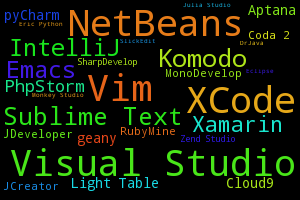
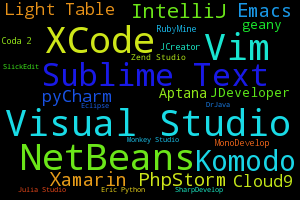
pyide 2

diff --git a/IDE/All.js b/IDE/All.js
@@ -1,7 +1,7 @@
     // data
 // begin Top All
 TopPlusMinus = [1,1,20]
-PlusMinus = [-0.101433333333,0.07005]
+PlusMinus = [-0.0934666666667,0.0672666666667]
 // end Top All
 graphData = [
 ['Date', // begin section languages
@@ -9,40 +9,40 @@ graphData = [
 // end section languages
 ],
 // begin section All
-[new Date(2004,1,1), 0.39,0.0,0.024,0.067,0.142,0.023,0.056,0.265,0.033,0.0,0.0,0.0,0.0,0.0,0.0,0.0,0.0,0.0,0.0,0.0,0.0,0.0,0.0,0.0,0.0,0.0,0.0,0.0],
-[new Date(2004,5,1), 0.396,0.0,0.025,0.074,0.137,0.024,0.057,0.247,0.04,0.0,0.0,0.0,0.0,0.0,0.0,0.0,0.0,0.0,0.0,0.0,0.0,0.0,0.0,0.0,0.0,0.0,0.0,0.0],
-[new Date(2004,9,1), 0.415,0.0,0.029,0.077,0.14,0.027,0.048,0.227,0.037,0.0,0.0,0.0,0.0,0.0,0.0,0.0,0.0,0.0,0.0,0.0,0.0,0.0,0.0,0.0,0.0,0.0,0.0,0.0],
-[new Date(2005,1,1), 0.416,0.0,0.029,0.086,0.137,0.028,0.049,0.222,0.034,0.0,0.0,0.0,0.0,0.0,0.0,0.0,0.0,0.0,0.0,0.0,0.0,0.0,0.0,0.0,0.0,0.0,0.0,0.0],
-[new Date(2005,5,1), 0.426,0.0,0.029,0.095,0.137,0.03,0.053,0.2,0.029,0.0,0.0,0.001,0.0,0.0,0.0,0.0,0.0,0.0,0.0,0.0,0.0,0.0,0.0,0.0,0.0,0.0,0.0,0.0],
-[new Date(2005,9,1), 0.446,0.0,0.03,0.097,0.134,0.036,0.042,0.181,0.029,0.0,0.0,0.004,0.0,0.0,0.0,0.0,0.0,0.0,0.0,0.0,0.0,0.0,0.0,0.0,0.0,0.0,0.0,0.0],
-[new Date(2006,1,1), 0.487,0.0,0.026,0.096,0.128,0.032,0.041,0.16,0.025,0.0,0.0,0.005,0.0,0.0,0.0,0.0,0.0,0.0,0.0,0.0,0.0,0.0,0.0,0.0,0.0,0.0,0.0,0.0],
-[new Date(2006,5,1), 0.498,0.0,0.027,0.107,0.126,0.028,0.048,0.14,0.021,0.0,0.0,0.005,0.0,0.0,0.0,0.0,0.0,0.0,0.0,0.0,0.0,0.0,0.0,0.0,0.0,0.0,0.0,0.0],
-[new Date(2006,9,1), 0.469,0.0,0.025,0.107,0.133,0.03,0.043,0.133,0.02,0.0,0.0,0.005,0.006,0.0,0.0,0.004,0.013,0.0,0.006,0.0,0.007,0.0,0.0,0.0,0.0,0.0,0.0,0.0],
-[new Date(2007,1,1), 0.444,0.0,0.023,0.121,0.126,0.031,0.043,0.121,0.019,0.0,0.0,0.005,0.01,0.0,0.0,0.006,0.027,0.0,0.012,0.0,0.012,0.0,0.0,0.0,0.0,0.0,0.0,0.0],
-[new Date(2007,5,1), 0.451,0.0,0.022,0.139,0.117,0.026,0.048,0.109,0.018,0.0,0.0,0.004,0.013,0.0,0.002,0.006,0.022,0.0,0.011,0.0,0.012,0.0,0.0,0.0,0.0,0.0,0.0,0.0],
-[new Date(2007,9,1), 0.45,0.0,0.022,0.148,0.117,0.025,0.044,0.104,0.017,0.0,0.0,0.004,0.021,0.0,0.002,0.005,0.019,0.0,0.01,0.0,0.01,0.0,0.0,0.0,0.0,0.0,0.0,0.0],
-[new Date(2008,1,1), 0.463,0.0,0.019,0.16,0.11,0.028,0.038,0.092,0.017,0.0,0.0,0.004,0.023,0.0,0.003,0.005,0.02,0.0,0.009,0.0,0.011,0.0,0.0,0.0,0.0,0.0,0.0,0.0],
-[new Date(2008,5,1), 0.474,0.0,0.017,0.169,0.102,0.029,0.042,0.083,0.015,0.0,0.0,0.004,0.022,0.0,0.003,0.004,0.017,0.0,0.007,0.0,0.011,0.0,0.0,0.0,0.0,0.0,0.0,0.0],
-[new Date(2008,9,1), 0.464,0.0,0.016,0.168,0.107,0.034,0.048,0.081,0.015,0.0,0.0,0.003,0.022,0.0,0.004,0.004,0.015,0.0,0.007,0.0,0.011,0.0,0.0,0.0,0.0,0.0,0.0,0.0],
-[new Date(2009,1,1), 0.458,0.0,0.015,0.173,0.108,0.039,0.043,0.08,0.015,0.0,0.0,0.003,0.023,0.0,0.004,0.004,0.016,0.0,0.007,0.0,0.011,0.0,0.0,0.0,0.0,0.0,0.0,0.0],
-[new Date(2009,5,1), 0.446,0.0,0.015,0.177,0.108,0.044,0.053,0.075,0.014,0.0,0.0,0.003,0.026,0.0,0.005,0.004,0.014,0.0,0.006,0.0,0.011,0.0,0.0,0.0,0.0,0.0,0.0,0.0],
-[new Date(2009,9,1), 0.44,0.0,0.014,0.177,0.112,0.051,0.051,0.072,0.014,0.0,0.0,0.003,0.025,0.0,0.005,0.005,0.013,0.0,0.006,0.0,0.013,0.0,0.0,0.0,0.0,0.0,0.0,0.0],
-[new Date(2010,1,1), 0.446,0.0,0.014,0.172,0.11,0.054,0.047,0.069,0.016,0.0,0.0,0.003,0.024,0.0,0.005,0.005,0.013,0.0,0.006,0.0,0.013,0.0,0.0,0.002,0.0,0.0,0.0,0.0],
-[new Date(2010,5,1), 0.457,0.0,0.013,0.166,0.106,0.056,0.049,0.062,0.016,0.0,0.0,0.002,0.021,0.001,0.005,0.005,0.011,0.001,0.005,0.001,0.01,0.001,0.001,0.009,0.0,0.0,0.001,0.001],
-[new Date(2010,9,1), 0.454,0.0,0.012,0.16,0.11,0.073,0.046,0.059,0.014,0.0,0.001,0.002,0.02,0.001,0.005,0.004,0.01,0.001,0.005,0.001,0.008,0.001,0.001,0.008,0.001,0.0,0.001,0.001],
-[new Date(2011,1,1), 0.423,0.0,0.011,0.159,0.119,0.082,0.048,0.06,0.016,0.0,0.002,0.003,0.02,0.002,0.006,0.004,0.01,0.001,0.005,0.001,0.009,0.002,0.001,0.012,0.001,0.001,0.001,0.002],
-[new Date(2011,5,1), 0.399,0.0,0.01,0.156,0.121,0.105,0.051,0.057,0.017,0.0,0.003,0.004,0.02,0.002,0.006,0.004,0.008,0.001,0.004,0.002,0.008,0.003,0.001,0.012,0.001,0.001,0.001,0.002],
-[new Date(2011,9,1), 0.383,0.0,0.01,0.15,0.125,0.125,0.051,0.054,0.017,0.001,0.004,0.004,0.02,0.003,0.006,0.005,0.008,0.001,0.003,0.004,0.007,0.003,0.001,0.011,0.001,0.001,0.001,0.002],
-[new Date(2012,1,1), 0.364,0.0,0.009,0.141,0.124,0.13,0.066,0.051,0.019,0.001,0.005,0.004,0.02,0.003,0.006,0.005,0.008,0.001,0.003,0.011,0.007,0.002,0.001,0.013,0.001,0.001,0.001,0.002],
-[new Date(2012,5,1), 0.363,0.0,0.009,0.14,0.124,0.132,0.055,0.049,0.02,0.002,0.006,0.005,0.019,0.003,0.006,0.005,0.006,0.003,0.003,0.022,0.006,0.003,0.001,0.014,0.001,0.001,0.001,0.001],
-[new Date(2012,9,1), 0.362,0.0,0.009,0.133,0.125,0.131,0.05,0.048,0.021,0.002,0.007,0.005,0.019,0.003,0.006,0.005,0.006,0.005,0.003,0.034,0.005,0.003,0.001,0.014,0.001,0.001,0.001,0.001],
-[new Date(2013,1,1), 0.371,0.0,0.008,0.127,0.122,0.119,0.051,0.044,0.024,0.003,0.009,0.005,0.017,0.004,0.006,0.005,0.006,0.004,0.003,0.045,0.004,0.003,0.001,0.015,0.001,0.001,0.001,0.001],
-[new Date(2013,5,1), 0.36,0.0,0.008,0.124,0.123,0.106,0.058,0.043,0.03,0.008,0.011,0.005,0.016,0.005,0.006,0.005,0.005,0.003,0.002,0.054,0.004,0.003,0.001,0.015,0.001,0.001,0.002,0.001],
-[new Date(2013,9,1), 0.354,0.0,0.009,0.119,0.127,0.104,0.054,0.04,0.033,0.012,0.012,0.006,0.014,0.006,0.006,0.004,0.004,0.003,0.002,0.064,0.003,0.003,0.001,0.014,0.001,0.001,0.001,0.001],
-[new Date(2014,1,1), 0.356,0.0,0.007,0.115,0.122,0.105,0.051,0.038,0.034,0.015,0.014,0.007,0.013,0.008,0.006,0.004,0.004,0.003,0.002,0.067,0.003,0.003,0.001,0.016,0.001,0.001,0.002,0.001],
-[new Date(2014,5,1), 0.349,0.0,0.006,0.113,0.122,0.101,0.053,0.036,0.04,0.019,0.016,0.009,0.011,0.01,0.005,0.005,0.003,0.003,0.002,0.069,0.003,0.003,0.001,0.017,0.001,0.001,0.002,0.001],
-[new Date(2014,9,1), 0.344,0.0,0.006,0.111,0.122,0.102,0.054,0.034,0.042,0.024,0.018,0.011,0.01,0.011,0.005,0.004,0.003,0.002,0.002,0.068,0.002,0.003,0.001,0.016,0.001,0.001,0.001,0.001],
-[new Date(2015,1,1), 0.345,0.0,0.005,0.105,0.119,0.099,0.054,0.033,0.045,0.027,0.02,0.012,0.009,0.013,0.005,0.004,0.003,0.002,0.002,0.07,0.002,0.003,0.001,0.018,0.001,0.001,0.001,0.001]
+[new Date(2004,1,1), 0.372,0.0,0.0,0.064,0.136,0.023,0.053,0.253,0.032,0.0,0.0,0.0,0.0,0.0,0.0,0.0,0.056,0.0,0.0,0.0,0.0,0.0,0.0,0.011,0.0,0.0,0.0,0.0],
+[new Date(2004,5,1), 0.377,0.0,0.0,0.07,0.13,0.023,0.054,0.236,0.038,0.0,0.0,0.0,0.0,0.0,0.0,0.0,0.061,0.0,0.0,0.0,0.0,0.0,0.0,0.011,0.0,0.0,0.0,0.0],
+[new Date(2004,9,1), 0.399,0.0,0.0,0.074,0.135,0.026,0.046,0.218,0.035,0.0,0.0,0.0,0.0,0.0,0.0,0.0,0.055,0.0,0.0,0.0,0.0,0.0,0.0,0.011,0.0,0.0,0.0,0.0],
+[new Date(2005,1,1), 0.399,0.0,0.0,0.082,0.132,0.026,0.047,0.213,0.032,0.0,0.0,0.0,0.0,0.0,0.0,0.0,0.054,0.0,0.0,0.0,0.0,0.0,0.0,0.013,0.0,0.0,0.0,0.0],
+[new Date(2005,5,1), 0.413,0.0,0.0,0.092,0.132,0.029,0.052,0.193,0.028,0.0,0.0,0.001,0.0,0.0,0.0,0.0,0.048,0.0,0.0,0.0,0.0,0.0,0.0,0.012,0.0,0.0,0.0,0.0],
+[new Date(2005,9,1), 0.435,0.0,0.0,0.095,0.131,0.035,0.042,0.178,0.029,0.0,0.0,0.004,0.0,0.0,0.0,0.0,0.041,0.0,0.0,0.0,0.0,0.0,0.0,0.012,0.0,0.0,0.0,0.0],
+[new Date(2006,1,1), 0.475,0.0,0.0,0.094,0.124,0.031,0.041,0.156,0.024,0.0,0.0,0.005,0.0,0.0,0.0,0.0,0.037,0.0,0.0,0.0,0.0,0.0,0.0,0.013,0.0,0.0,0.0,0.0],
+[new Date(2006,5,1), 0.491,0.0,0.0,0.105,0.124,0.028,0.048,0.138,0.021,0.0,0.0,0.005,0.0,0.0,0.0,0.0,0.029,0.0,0.0,0.0,0.0,0.0,0.0,0.011,0.0,0.0,0.0,0.0],
+[new Date(2006,9,1), 0.478,0.0,0.0,0.109,0.135,0.031,0.044,0.135,0.02,0.0,0.0,0.005,0.006,0.0,0.0,0.0,0.027,0.0,0.0,0.0,0.0,0.0,0.0,0.01,0.0,0.0,0.0,0.0],
+[new Date(2007,1,1), 0.46,0.0,0.003,0.125,0.13,0.032,0.044,0.126,0.02,0.0,0.0,0.005,0.011,0.0,0.0,0.001,0.027,0.0,0.002,0.0,0.002,0.0,0.0,0.011,0.0,0.0,0.0,0.0],
+[new Date(2007,5,1), 0.453,0.0,0.014,0.14,0.119,0.027,0.049,0.11,0.018,0.0,0.0,0.004,0.013,0.0,0.002,0.004,0.022,0.0,0.006,0.0,0.007,0.0,0.001,0.01,0.0,0.0,0.0,0.0],
+[new Date(2007,9,1), 0.449,0.0,0.019,0.147,0.117,0.025,0.044,0.104,0.017,0.0,0.0,0.004,0.021,0.0,0.002,0.005,0.019,0.0,0.008,0.0,0.009,0.0,0.001,0.009,0.0,0.0,0.0,0.0],
+[new Date(2008,1,1), 0.455,0.0,0.02,0.158,0.109,0.027,0.037,0.091,0.017,0.0,0.0,0.004,0.023,0.0,0.003,0.005,0.02,0.0,0.009,0.0,0.011,0.0,0.002,0.011,0.0,0.0,0.0,0.0],
+[new Date(2008,5,1), 0.468,0.0,0.018,0.166,0.101,0.029,0.041,0.081,0.015,0.0,0.0,0.003,0.022,0.0,0.003,0.005,0.017,0.0,0.007,0.0,0.011,0.0,0.002,0.01,0.0,0.0,0.0,0.0],
+[new Date(2008,9,1), 0.458,0.0,0.017,0.166,0.106,0.034,0.048,0.08,0.015,0.0,0.0,0.003,0.022,0.0,0.004,0.004,0.015,0.0,0.007,0.0,0.011,0.0,0.002,0.01,0.0,0.0,0.0,0.0],
+[new Date(2009,1,1), 0.451,0.0,0.016,0.171,0.106,0.038,0.042,0.079,0.015,0.0,0.0,0.003,0.023,0.0,0.004,0.004,0.015,0.0,0.007,0.0,0.012,0.0,0.002,0.011,0.0,0.0,0.0,0.0],
+[new Date(2009,5,1), 0.44,0.0,0.015,0.174,0.106,0.042,0.052,0.074,0.014,0.0,0.0,0.003,0.026,0.0,0.005,0.004,0.014,0.0,0.006,0.0,0.011,0.001,0.001,0.011,0.0,0.0,0.0,0.0],
+[new Date(2009,9,1), 0.433,0.0,0.015,0.174,0.11,0.049,0.05,0.071,0.014,0.0,0.0,0.003,0.025,0.0,0.005,0.005,0.012,0.0,0.006,0.0,0.013,0.002,0.001,0.01,0.0,0.0,0.0,0.0],
+[new Date(2010,1,1), 0.44,0.0,0.014,0.169,0.109,0.053,0.046,0.068,0.016,0.0,0.0,0.003,0.024,0.0,0.005,0.005,0.013,0.0,0.006,0.0,0.013,0.002,0.002,0.012,0.0,0.0,0.0,0.0],
+[new Date(2010,5,1), 0.455,0.0,0.013,0.165,0.106,0.056,0.049,0.062,0.015,0.0,0.0,0.002,0.021,0.001,0.005,0.005,0.011,0.001,0.005,0.001,0.01,0.001,0.001,0.011,0.001,0.001,0.001,0.001],
+[new Date(2010,9,1), 0.453,0.0,0.012,0.159,0.11,0.072,0.046,0.059,0.014,0.0,0.001,0.002,0.02,0.001,0.005,0.004,0.01,0.001,0.005,0.001,0.009,0.002,0.001,0.009,0.001,0.0,0.001,0.001],
+[new Date(2011,1,1), 0.422,0.0,0.012,0.159,0.119,0.082,0.048,0.06,0.016,0.0,0.002,0.003,0.02,0.002,0.006,0.005,0.01,0.001,0.005,0.001,0.009,0.002,0.001,0.012,0.001,0.001,0.001,0.002],
+[new Date(2011,5,1), 0.399,0.0,0.011,0.156,0.121,0.105,0.051,0.057,0.017,0.0,0.003,0.004,0.02,0.002,0.006,0.004,0.008,0.001,0.004,0.002,0.008,0.003,0.001,0.011,0.001,0.001,0.001,0.002],
+[new Date(2011,9,1), 0.383,0.0,0.011,0.15,0.124,0.125,0.051,0.054,0.017,0.001,0.004,0.004,0.02,0.003,0.006,0.005,0.008,0.001,0.003,0.004,0.007,0.003,0.001,0.011,0.001,0.001,0.001,0.002],
+[new Date(2012,1,1), 0.364,0.0,0.01,0.141,0.124,0.13,0.066,0.051,0.019,0.001,0.005,0.004,0.02,0.003,0.006,0.005,0.008,0.001,0.003,0.011,0.007,0.002,0.001,0.013,0.001,0.001,0.001,0.002],
+[new Date(2012,5,1), 0.363,0.0,0.009,0.14,0.123,0.132,0.055,0.049,0.02,0.002,0.006,0.005,0.019,0.003,0.006,0.005,0.006,0.003,0.003,0.022,0.006,0.003,0.001,0.013,0.001,0.001,0.001,0.002],
+[new Date(2012,9,1), 0.362,0.0,0.009,0.133,0.126,0.13,0.05,0.048,0.021,0.002,0.007,0.005,0.019,0.004,0.006,0.005,0.006,0.006,0.003,0.033,0.005,0.003,0.001,0.013,0.001,0.001,0.001,0.001],
+[new Date(2013,1,1), 0.372,0.0,0.008,0.127,0.122,0.119,0.051,0.044,0.024,0.003,0.009,0.005,0.017,0.004,0.006,0.005,0.006,0.004,0.003,0.044,0.004,0.003,0.001,0.015,0.001,0.001,0.001,0.001],
+[new Date(2013,5,1), 0.361,0.0,0.008,0.124,0.123,0.107,0.058,0.043,0.03,0.008,0.011,0.005,0.016,0.005,0.006,0.005,0.005,0.003,0.003,0.052,0.004,0.003,0.001,0.015,0.001,0.001,0.001,0.001],
+[new Date(2013,9,1), 0.356,0.0,0.008,0.119,0.127,0.105,0.054,0.04,0.033,0.012,0.012,0.006,0.015,0.006,0.006,0.004,0.004,0.003,0.002,0.063,0.004,0.003,0.001,0.014,0.001,0.001,0.001,0.001],
+[new Date(2014,1,1), 0.358,0.0,0.007,0.116,0.123,0.106,0.051,0.038,0.035,0.015,0.014,0.007,0.013,0.008,0.006,0.005,0.004,0.003,0.002,0.064,0.003,0.003,0.001,0.016,0.001,0.001,0.001,0.001],
+[new Date(2014,5,1), 0.35,0.0,0.006,0.114,0.122,0.101,0.053,0.036,0.041,0.019,0.016,0.009,0.012,0.01,0.005,0.005,0.003,0.003,0.002,0.066,0.003,0.003,0.001,0.016,0.001,0.001,0.001,0.001],
+[new Date(2014,9,1), 0.345,0.0,0.006,0.111,0.122,0.102,0.054,0.034,0.042,0.024,0.018,0.011,0.01,0.011,0.005,0.004,0.003,0.002,0.002,0.068,0.002,0.003,0.001,0.015,0.001,0.001,0.001,0.001],
+[new Date(2015,1,1), 0.346,0.0,0.006,0.105,0.119,0.1,0.054,0.033,0.045,0.027,0.02,0.012,0.009,0.013,0.005,0.004,0.003,0.002,0.002,0.068,0.002,0.003,0.001,0.018,0.001,0.001,0.001,0.001]
 // end section All
         ];
 

diff --git a/IDE.html b/IDE.html
@@ -134,31 +134,31 @@ country["FR"]="France"
 function refreshTop() {        
 cloud = "All.png"
 table = "<!-- begin section All-->\
-<td class=center>1</td><td class=center></td><td>Visual Studio</td><td class=right>34.5 %</td><td class=\"right optCol\">-1.4 %</td></tr>\
-<tr><td class=center>2</td><td class=center></td><td>Vim</td><td class=right>11.9 %</td><td class=\"right optCol\">-0.1 %</td></tr>\
-<tr><td class=center>3</td><td class=center></td><td>NetBeans</td><td class=right>10.5 %</td><td class=\"right optCol\">-1.0 %</td></tr>\
-<tr><td class=center>4</td><td class=center></td><td>XCode</td><td class=right>9.9 %</td><td class=\"right optCol\">-0.3 %</td></tr>\
-<tr><td class=center>5</td><td class=center></td><td>Sublime Text</td><td class=right>7.0 %</td><td class=\"right optCol\">+0.2 %</td></tr>\
-<tr><td class=center>6</td><td class=center></td><td>Komodo</td><td class=right>5.4 %</td><td class=\"right optCol\">+0.4 %</td></tr>\
-<tr><td class=center>7</td><td class=center><image src=Up.png></td><td>IntelliJ</td><td class=right>4.5 %</td><td class=\"right optCol\">+0.9 %</td></tr>\
+<td class=center>1</td><td class=center></td><td>Visual Studio</td><td class=right>34.6 %</td><td class=\"right optCol\">-1.4 %</td></tr>\
+<tr><td class=center>2</td><td class=center></td><td>Vim</td><td class=right>11.9 %</td><td class=\"right optCol\">-0.2 %</td></tr>\
+<tr><td class=center>3</td><td class=center></td><td>NetBeans</td><td class=right>10.5 %</td><td class=\"right optCol\">-1.1 %</td></tr>\
+<tr><td class=center>4</td><td class=center></td><td>XCode</td><td class=right>10.0 %</td><td class=\"right optCol\">-0.3 %</td></tr>\
+<tr><td class=center>5</td><td class=center></td><td>Sublime Text</td><td class=right>6.8 %</td><td class=\"right optCol\">+0.4 %</td></tr>\
+<tr><td class=center>6</td><td class=center></td><td>Komodo</td><td class=right>5.4 %</td><td class=\"right optCol\">+0.3 %</td></tr>\
+<tr><td class=center>7</td><td class=center><image src=Up.png></td><td>IntelliJ</td><td class=right>4.5 %</td><td class=\"right optCol\">+0.8 %</td></tr>\
 <tr><td class=center>8</td><td class=center><image src=Down.png></td><td>Emacs</td><td class=right>3.3 %</td><td class=\"right optCol\">-0.5 %</td></tr>\
-<tr><td class=center>9</td><td class=center><image src=Up.png></td><td>Xamarin</td><td class=right>2.7 %</td><td class=\"right optCol\">+1.3 %</td></tr>\
+<tr><td class=center>9</td><td class=center><image src=Up.png></td><td>Xamarin</td><td class=right>2.7 %</td><td class=\"right optCol\">+1.2 %</td></tr>\
 <tr><td class=center>10</td><td class=center><image src=Up.png></td><td>PhpStorm</td><td class=right>2.0 %</td><td class=\"right optCol\">+0.6 %</td></tr>\
-<tr><td class=center>11</td><td class=center><image src=Down.png><image src=Down.png></td><td>Light Table</td><td class=right>1.8 %</td><td class=\"right optCol\">-0.0 %</td></tr>\
+<tr><td class=center>11</td><td class=center><image src=Down.png><image src=Down.png></td><td>Light Table</td><td class=right>1.8 %</td><td class=\"right optCol\">+0.1 %</td></tr>\
 <tr><td class=center>12</td><td class=center><image src=Up.png></td><td>pyCharm</td><td class=right>1.3 %</td><td class=\"right optCol\">+0.5 %</td></tr>\
 <tr><td class=center>13</td><td class=center><image src=Up.png></td><td>Cloud9</td><td class=right>1.2 %</td><td class=\"right optCol\">+0.5 %</td></tr>\
-<tr><td class=center>14</td><td class=center><image src=Down.png><image src=Down.png></td><td>Aptana</td><td class=right>0.9 %</td><td class=\"right optCol\">-0.3 %</td></tr>\
-<tr><td class=center>15</td><td class=center><image src=Up.png></td><td>geany</td><td class=right>0.5 %</td><td class=\"right optCol\">-0.0 %</td></tr>\
-<tr><td class=center>16</td><td class=center><image src=Down.png></td><td>JDeveloper</td><td class=right>0.5 %</td><td class=\"right optCol\">-0.2 %</td></tr>\
-<tr><td class=center>17</td><td class=center></td><td>MonoDevelop</td><td class=right>0.4 %</td><td class=\"right optCol\">-0.0 %</td></tr>\
+<tr><td class=center>14</td><td class=center><image src=Down.png><image src=Down.png></td><td>Aptana</td><td class=right>0.9 %</td><td class=\"right optCol\">-0.4 %</td></tr>\
+<tr><td class=center>15</td><td class=center></td><td>JDeveloper</td><td class=right>0.6 %</td><td class=\"right optCol\">-0.1 %</td></tr>\
+<tr><td class=center>16</td><td class=center></td><td>geany</td><td class=right>0.5 %</td><td class=\"right optCol\">-0.0 %</td></tr>\
+<tr><td class=center>17</td><td class=center></td><td>MonoDevelop</td><td class=right>0.4 %</td><td class=\"right optCol\">-0.1 %</td></tr>\
 <tr><td class=center>18</td><td class=center></td><td>JCreator</td><td class=right>0.3 %</td><td class=\"right optCol\">-0.1 %</td></tr>\
 <tr><td class=center>19</td><td class=center></td><td>RubyMine</td><td class=right>0.3 %</td><td class=\"right optCol\">-0.0 %</td></tr>\
 <tr><td class=center>20</td><td class=center><image src=Up.png></td><td>Coda 2</td><td class=right>0.2 %</td><td class=\"right optCol\">-0.1 %</td></tr>\
 <tr><td class=center>21</td><td class=center><image src=Down.png></td><td>Zend Studio</td><td class=right>0.2 %</td><td class=\"right optCol\">-0.1 %</td></tr>\
 <tr><td class=center>22</td><td class=center></td><td>SharpDevelop</td><td class=right>0.2 %</td><td class=\"right optCol\">-0.0 %</td></tr>\
-<tr><td class=center>23</td><td class=center></td><td>Monkey Studio</td><td class=right>0.1 %</td><td class=\"right optCol\">-0.1 %</td></tr>\
-<tr><td class=center>24</td><td class=center><image src=Up.png><image src=Up.png><image src=Up.png></td><td>DrJava</td><td class=right>0.1 %</td><td class=\"right optCol\">-0.0 %</td></tr>\
-<tr><td class=center>25</td><td class=center></td><td>Julia Studio</td><td class=right>0.1 %</td><td class=\"right optCol\">-0.0 %</td></tr>\
+<tr><td class=center>23</td><td class=center></td><td>Monkey Studio</td><td class=right>0.1 %</td><td class=\"right optCol\">-0.0 %</td></tr>\
+<tr><td class=center>24</td><td class=center><image src=Up.png></td><td>DrJava</td><td class=right>0.1 %</td><td class=\"right optCol\">-0.0 %</td></tr>\
+<tr><td class=center>25</td><td class=center><image src=Up.png><image src=Up.png></td><td>Julia Studio</td><td class=right>0.1 %</td><td class=\"right optCol\">-0.0 %</td></tr>\
 <tr><td class=center>26</td><td class=center></td><td>Eric Python</td><td class=right>0.1 %</td><td class=\"right optCol\">-0.0 %</td></tr>\
 <tr><td class=center>27</td><td class=center><image src=Down.png><image src=Down.png><image src=Down.png></td><td>SlickEdit</td><td class=right>0.1 %</td><td class=\"right optCol\">-0.0 %</td>\
 <!-- end section All-->\
@@ -246,7 +246,7 @@ table = "<!-- begin section FR-->\
 ";
 }
 
-table = "<table class=table><tr><th class=center>Rank<br></th><th class=center>Change</th><th>Language</th><th class=center>Share</th><th class=\"optCol center\">Trend</th></tr><tr>" + table + "</tr><tr><td colspan=5 align=right>&copy; Pierre Carbonnelle, 2015</td></tr></table>"
+table = "<table class=table><tr><th class=center>Rank<br></th><th class=center>Change</th><th>IDE</th><th class=center>Share</th><th class=\"optCol center\">Trend</th></tr><tr>" + table + "</tr><tr><td colspan=5 align=right>&copy; Pierre Carbonnelle, 2015</td></tr></table>"
 document.getElementById("table").innerHTML=table;
 document.getElementById("cloud").src="IDE/"+cloud;
 } // refreshTop
@@ -266,7 +266,7 @@ document.getElementById("cloud").src="IDE/"+cloud;
 
         <div class="col-sm-5 col-md-5 col-lg-4 col-lg-offset-1 vcenter">
           <span>
-            <p class=lead>Hello world</p>
+            <p class=lead>Xamarin had the highest increase of popularity in 2014 (1.3 % worldwide) : it is thus the Integrated Development Environment of the Year 2014.  </p>
             <p><br></p>
             <p class=text-center><img id=cloud></img></p>
           </span>
@@ -348,7 +348,7 @@ document.getElementById("cloud").src="IDE/"+cloud;
             </div>
             <div id="collapseZero" class="panel-collapse collapse in">
                 <div class="panel-body">
-                    <p>The PYIDE PopularitY of IDE Index is created by analyzing how often IDEs are searched on Google : the more an IDE is searched, the more popular the language is assumed to be. The raw data comes from Google Trends.</p>  
+                    <p>The PYIDE PopularitY of IDE Index is created by analyzing how often IDEs are searched on Google : the more an IDE is searched, the more popular the IDE is assumed to be. The raw data comes from Google Trends.</p>  
                     <p>If you believe in collective wisdom, the PYIDE Popularity of IDE index can help you decide which IDE to use for your software development project.  </p>
                 </div>
             </div>
@@ -440,7 +440,7 @@ document.getElementById("cloud").src="IDE/"+cloud;
 
 <script>
 $.ajaxSetup({async:false});
-if (getUrlParameter('country') == "") {$.getScript("IDE/All.js?t=axbAll9495Allbxa")}
+if (getUrlParameter('country') == "") {$.getScript("IDE/All.js?t=axbAll6358Allbxa")}
 if (getUrlParameter('country') == "US") {$.getScript("IDE/US.js?t=axbUS251USbxa")}
 if (getUrlParameter('country') == "DE") {$.getScript("IDE/DE.js?t=axbDE5123DEbxa")}
 if (getUrlParameter('country') == "IN") {$.getScript("IDE/IN.js?t=axbIN8342INbxa")}
@@ -448,7 +448,7 @@ if (getUrlParameter('country') == "GB") {$.getScript("IDE/GB.js?t=axbGB1860GBbxa
 if (getUrlParameter('country') == "FR") {$.getScript("IDE/FR.js?t=axbFR4729FRbxa")}
 $.ajaxSetup({async:true});
 
-document.getElementById('topBottom').innerHTML = String.format('{0} is the most popular language, {3} grew the most in the last 5 years ({4}%) and {1} lost the most ({2}%)', 
+document.getElementById('topBottom').innerHTML = String.format('{0} is the most popular IDE, {3} grew the most in the last 5 years ({4}%) and {1} lost the most ({2}%)', 
     graphData[0][TopPlusMinus[0]], graphData[0][TopPlusMinus[1]], (100*PlusMinus[0]).toFixed(1), graphData[0][TopPlusMinus[2]], (100*PlusMinus[1]).toFixed(1));
 
 document.getElementById('PYPL').style.height=""
